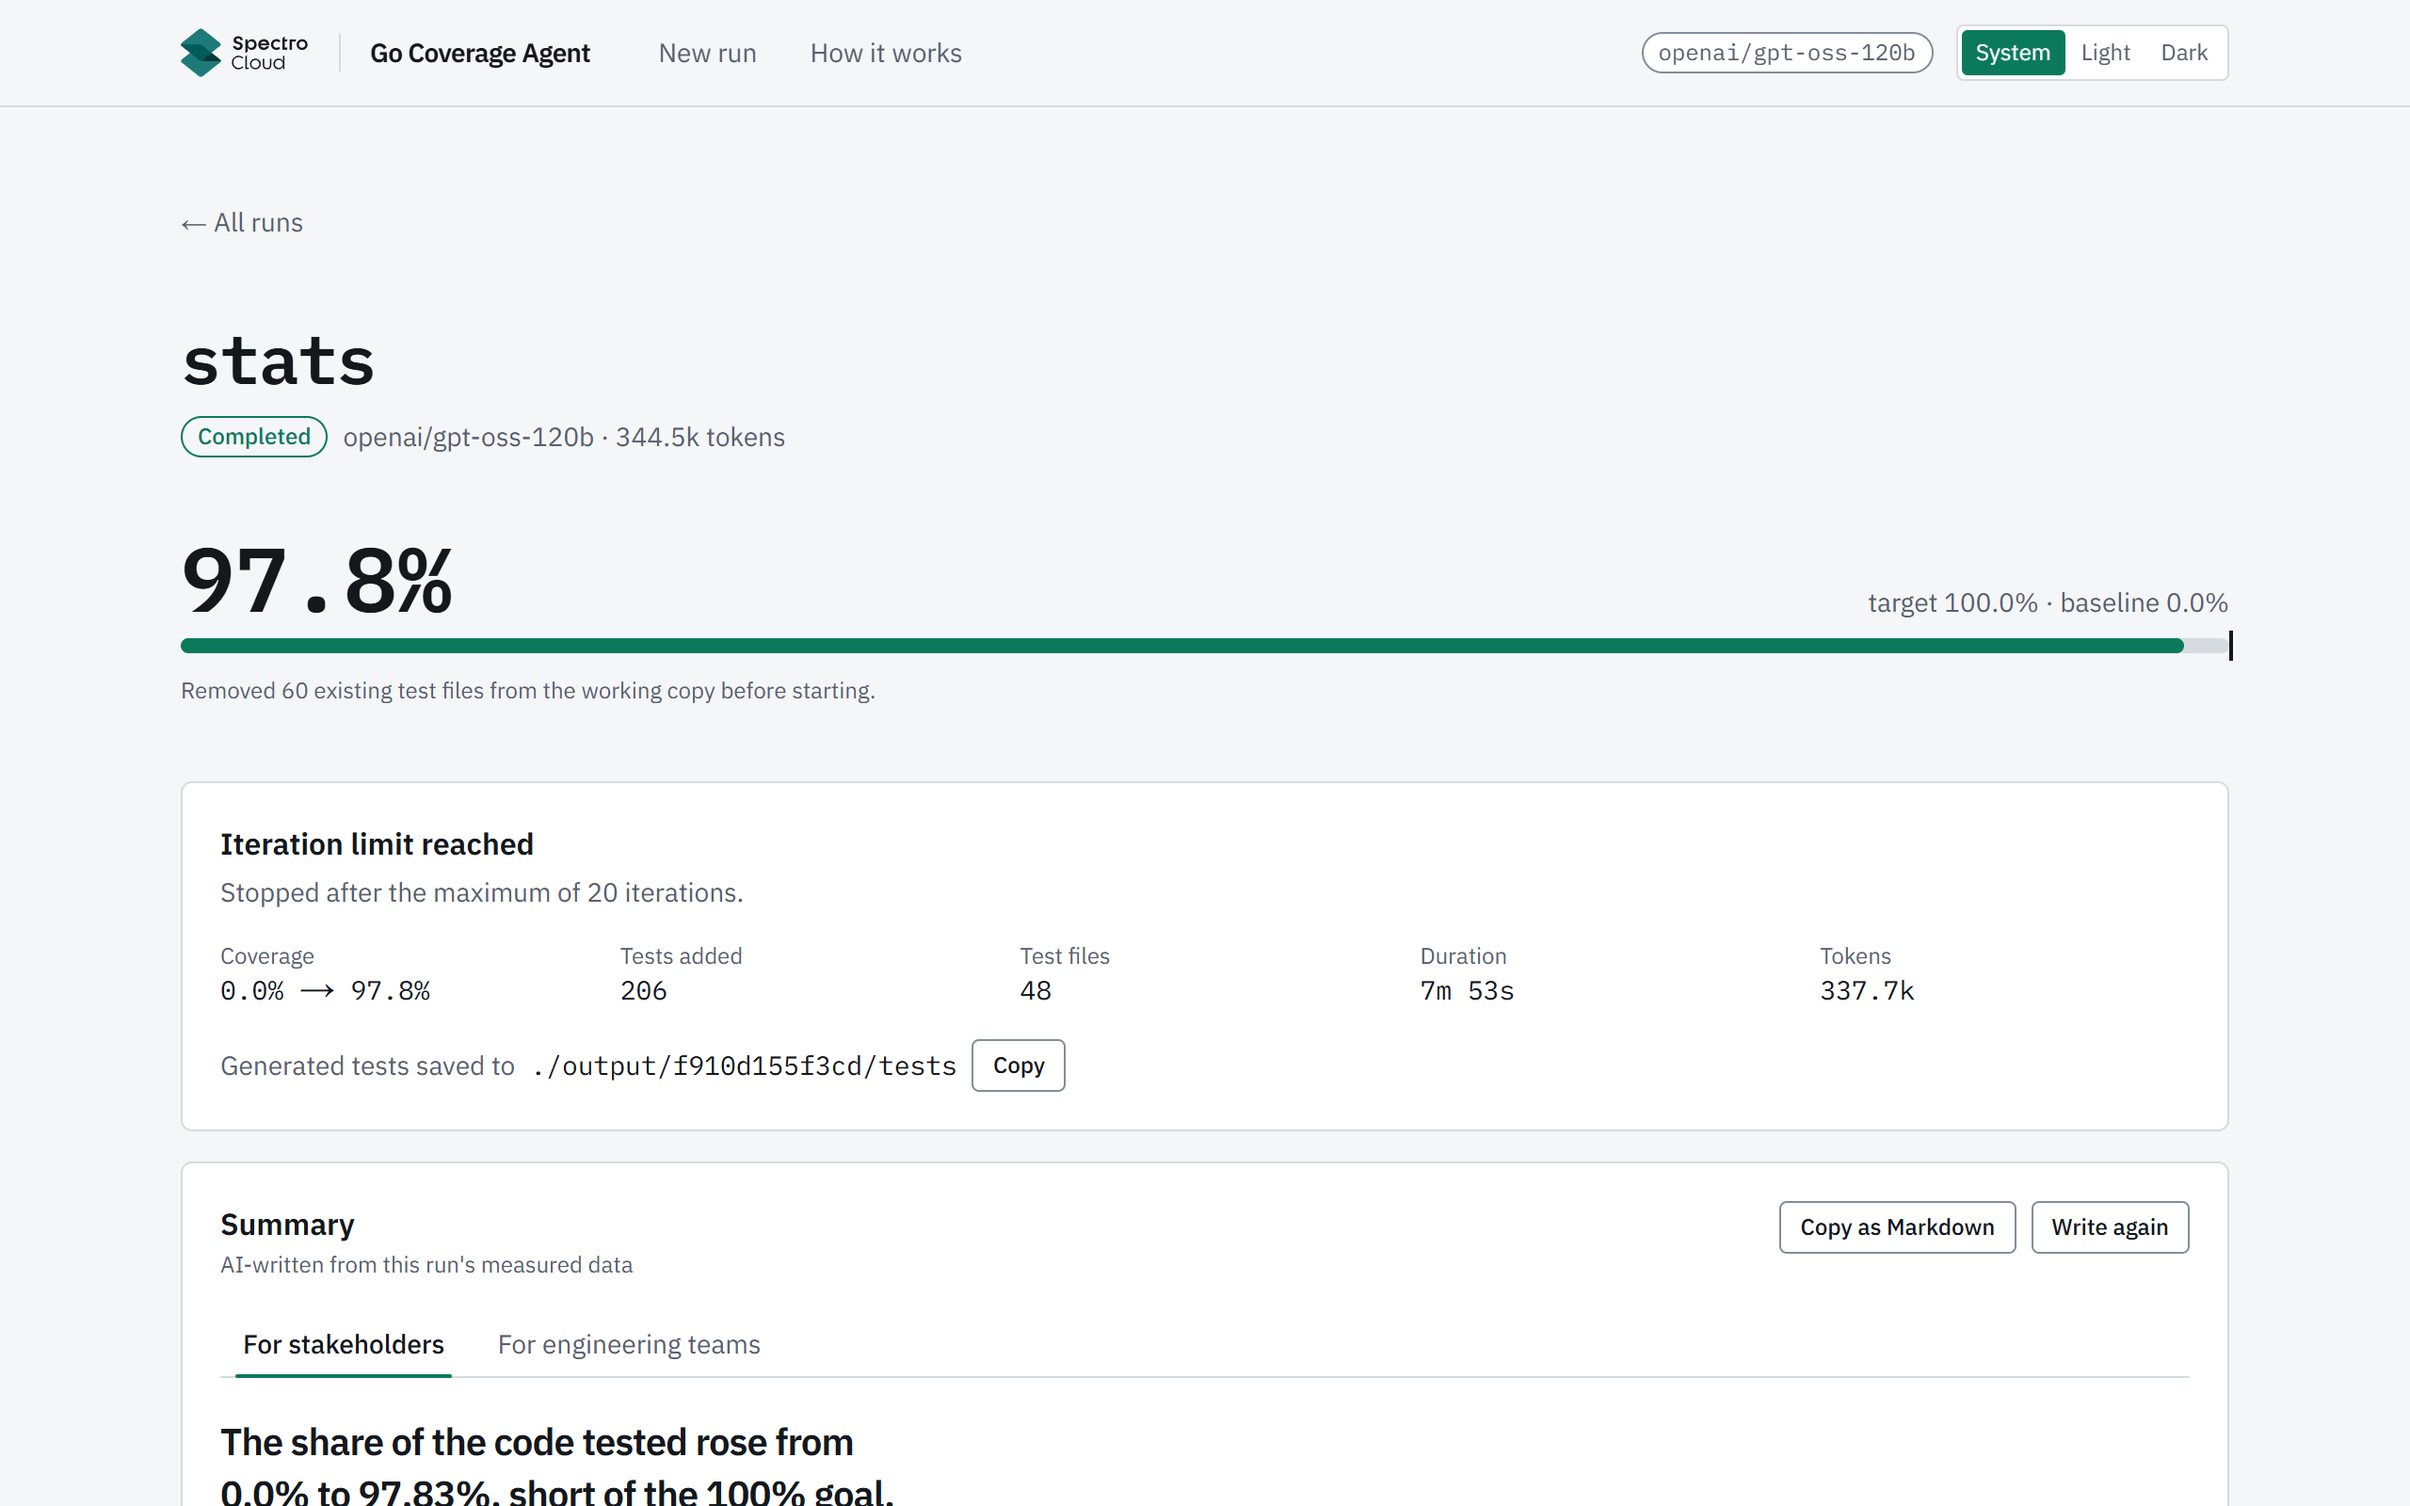
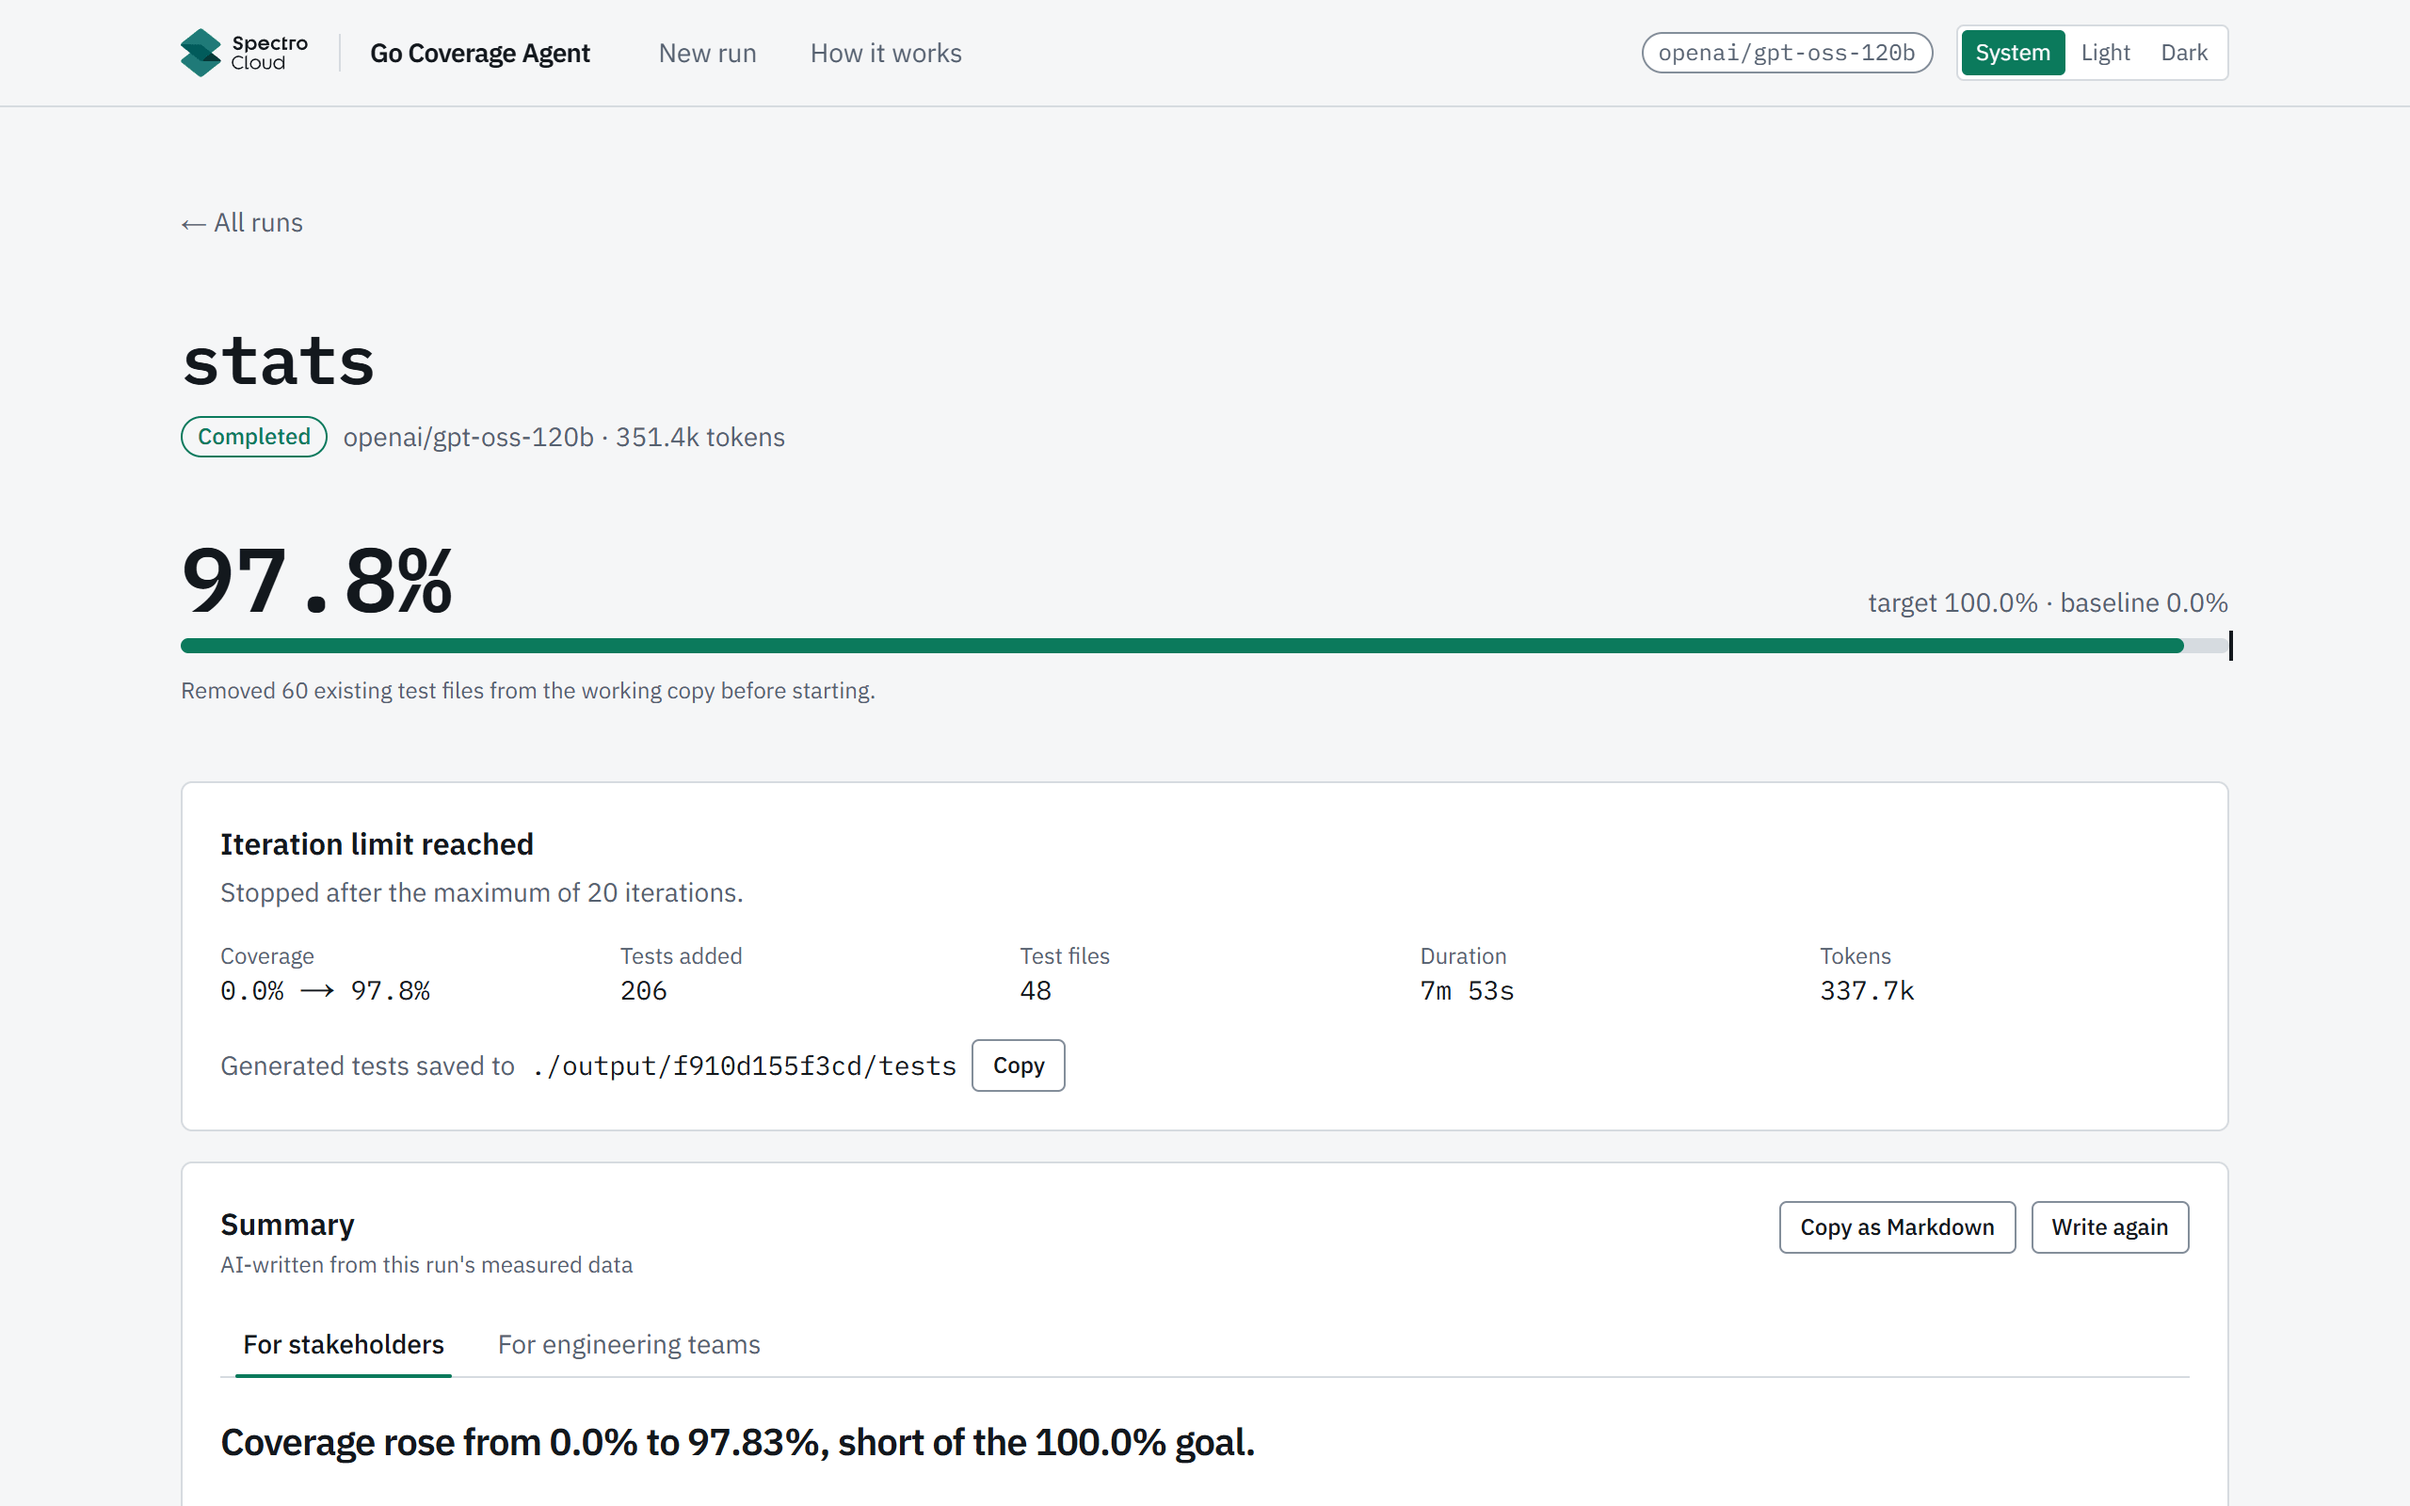
docs: parallel-writers results table; retake screenshots of the regenerated f910d155f3cd summary

Changed region(s): [[0.0938, 0.9375, 0.5312, 1.0], [0.25, 0.2812, 0.2812, 0.3125]]

diff --git a/README.md b/README.md
@@ -119,6 +119,24 @@ The last two runs needed one LLM fix each (12.8 s at `medium`, 9.6 s at `low`), 
 
 With the cap of 5 more targets passed on the first check and fewer LLM fixes were needed; semver used 34% fewer tokens, stats about the same. These are single runs, so a few seconds or a percentage point is within normal variation.
 
+**Parallel writers (2026-10-10)** (stats, same settings, cap of 5; only `PARALLEL_WRITERS` changed):
+
+| | Sequential | Parallel |
+|---|---|---|
+| Run | `e2de1ca387cb` | `adb390243460` |
+| Coverage | 0% → 81.07% (target reached) | 0% → 80.27% (target reached) |
+| Rounds | 11 | 11 |
+| Time | 310 s | 147 s (−53%) |
+| Targets accepted / rejected | 31 / 0 | 33 / 0 |
+| Passed on the first check | 27 | 25 |
+| LLM fixes | 1 | 2 |
+| Duplicate-name errors / renames | 0 / 0 | 0 / 0 |
+| `no_gain` rejections | 0 | 0 |
+| Rate-limit waits | 0 | 0 |
+| Tokens | 175K | 187K |
+
+These are single runs: the time halved with no loss of quality, for about 7% more tokens. `PARALLEL_WRITERS` is off by default and meant to be turned on for paid keys.
+
 ### Issues I found in testing and fixed
 
 I had the system run end to end (Claude ran the live runs I approved), read the results, spotted these problems and decided the fixes. Claude Code implemented them under review.
@@ -139,15 +157,13 @@ I had the system run end to end (Claude ran the live runs I approved), read the 
 <table>
 <tr><td valign="top" width="50%"><a href="docs/screenshots/gallery-setup.png"><img src="docs/screenshots/gallery-setup.png" width="100%" alt="New run page at step 1 of the wizard: the header, the four-step stepper, the Sample repos tab with montanaflynn/stats selected, and the Run history panel listing 31 runs"></a><br><b>New run, step 1:</b> the wizard beside Run history.</td><td valign="top" width="50%"><a href="docs/screenshots/gallery-runs-dark.png"><img src="docs/screenshots/gallery-runs-dark.png" width="100%" alt="The review step of the New run wizard and the Run history panel in the dark theme"></a><br><b>Review &amp; start</b>, dark theme.</td></tr>
 <tr><td valign="top" width="50%"><a href="docs/screenshots/gallery-folders.png"><img src="docs/screenshots/gallery-folders.png" width="100%" alt="Step 1 of the New run wizard on the Your folders tab after uploading a copy of stats: the drop area, the upload result, the uploaded module selected and the HOST_REPOS_DIR note"></a><br><b>Your folders:</b> after uploading a local copy of stats.</td><td valign="top" width="50%"><a href="docs/screenshots/gallery-live.png"><img src="docs/screenshots/gallery-live.png" width="100%" alt="Run in progress at 17.2 percent with a Cancel button and the Activity list ending in a running item"></a><br><b>Run in progress</b>, with Cancel and the Activity list.</td></tr>
-<tr><td valign="top" width="50%"><a href="docs/screenshots/gallery-chart.png"><img src="docs/screenshots/gallery-chart.png" width="100%" alt="Line chart of coverage after each of 20 iterations rising towards the dashed 100 percent target line, with the Possible bugs found list below it"></a><br><b>Coverage by round</b> and the possible bug the run reported.</td><td valign="top" width="50%"><a href="docs/screenshots/gallery-trace.png"><img src="docs/screenshots/gallery-trace.png" width="100%" alt="Expanded Activity item for histogram.go with three numbered attempts: rejected by the safety guard, one failing test after the LLM fix, then the failing test removed and the rest passing"></a><br><b>Attempt trace:</b> guard rejection, LLM fix, prune, accepted.</td></tr>
+<tr><td valign="top" width="50%"><a href="docs/screenshots/gallery-chart.png"><img src="docs/screenshots/gallery-chart.png" width="100%" alt="Line chart of coverage after each of 11 iterations rising from 0 percent to the dashed 80 percent target line, with the Generated tests section below it"></a><br><b>Coverage by round</b> for the parallel-writers run of stats (<code>adb390243460</code>), above the generated tests.</td><td valign="top" width="50%"><a href="docs/screenshots/gallery-trace.png"><img src="docs/screenshots/gallery-trace.png" width="100%" alt="Expanded Activity item for histogram.go with three numbered attempts: rejected by the safety guard, one failing test after the LLM fix, then the failing test removed and the rest passing"></a><br><b>Attempt trace:</b> guard rejection, LLM fix, prune, accepted.</td></tr>
 <tr><td valign="top" width="50%"><a href="docs/screenshots/gallery-testfile.png"><img src="docs/screenshots/gallery-testfile.png" width="100%" alt="Generated tests section with clip_test.go selected and highlighted Go code"></a><br><b>Generated tests</b>, syntax-highlighted.</td><td valign="top" width="50%"><a href="docs/screenshots/gallery-dark.png"><img src="docs/screenshots/gallery-dark.png" width="100%" alt="Iteration limit reached summary card and the AI summary below it, on the For stakeholders tab, in the dark theme"></a><br><b>Run page</b>, dark theme.</td></tr>
 <tr><td valign="top" width="50%"><a href="docs/screenshots/gallery-summary-ai.png"><img src="docs/screenshots/gallery-summary-ai.png" width="100%" alt="The Summary section of run f910d155f3cd on the For stakeholders tab: a headline about coverage rising from 0.0% to 97.83%, then Outcome, Efficiency with an estimated cost, Risks and Recommendation, with Copy as Markdown and Write again buttons"></a><br><b>AI summary</b> for stakeholders, with the cost line.</td><td valign="top" width="50%"><a href="docs/screenshots/gallery-summary-tech.png"><img src="docs/screenshots/gallery-summary-tech.png" width="100%" alt="The same Summary section on the For engineering teams tab: what was tested, where the tests live, how to run them, and a table of the files with uncovered statements"></a><br><b>AI summary</b> for engineering teams.</td></tr>
 <tr><td valign="top" width="50%"><a href="docs/screenshots/gallery-howitworks.png"><img src="docs/screenshots/gallery-howitworks.png" width="100%" alt="How it works page: the five steps of a run side by side, steps 2 to 5 marked as one round with an arrow back to step 2"></a><br><b>How it works</b>, in plain words.</td><td valign="top" width="50%"><a href="docs/screenshots/gallery-walkthrough.png"><img src="docs/screenshots/gallery-walkthrough.png" width="100%" alt="Walkthrough page with a table of contents that follows the run beside the Start a run section"></a><br><b>Walkthrough</b>, the technical version.</td></tr>
 <tr><td valign="top" width="50%"><a href="docs/screenshots/gallery-setup-mobile.png"><img src="docs/screenshots/gallery-setup-mobile.png" width="100%" alt="The New run wizard at step 1 on a 390 pixel wide phone screen"></a><br><b>New run</b> on a phone.</td><td valign="top" width="50%"><a href="docs/screenshots/gallery-mobile.png"><img src="docs/screenshots/gallery-mobile.png" width="100%" alt="Run page on a 390 pixel wide phone screen"></a><br><b>Run page</b> on a phone.</td></tr>
 <tr><td valign="top" width="50%"><a href="docs/screenshots/gallery-howitworks-mobile.png"><img src="docs/screenshots/gallery-howitworks-mobile.png" width="100%" alt="How it works page on a 390 pixel wide phone screen"></a><br><b>How it works</b> on a phone.</td><td></td></tr>
 </table>
-
-The chart, AI summary and dark run-page shots of run f910d155f3cd still show its refuted `Mode` suspected bug; they will be retaken.
 
 ## Configuration
 
